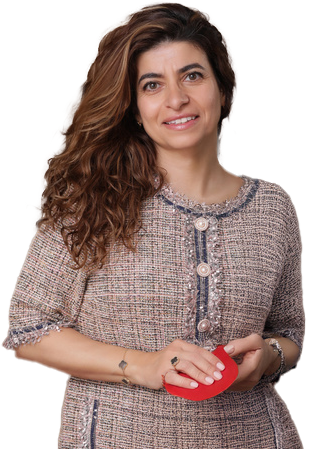
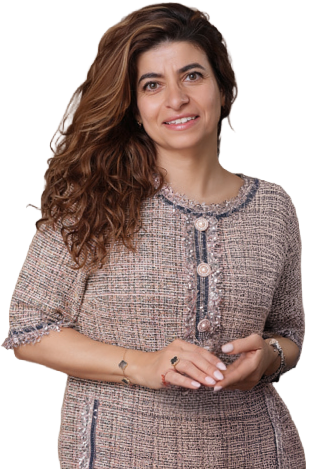
Changed Hiba's picture and decrease the margin above the flames in the testimonials

diff --git a/src/components/sections/Testimonials.jsx b/src/components/sections/Testimonials.jsx
@@ -392,7 +392,7 @@ const Testimonials = ({ showPics = true, currentCategoryId = null }) => {
             </div>
 
             {/* Carousel Indicators */}
-            <div className="mt-8">
+            <div className="mt-2">
               {/* Desktop: Show all flames in a row */}
               <div className="hidden md:flex justify-center lg:justify-start space-x-3">
                 {filteredTestimonials.map((_, index) => (
